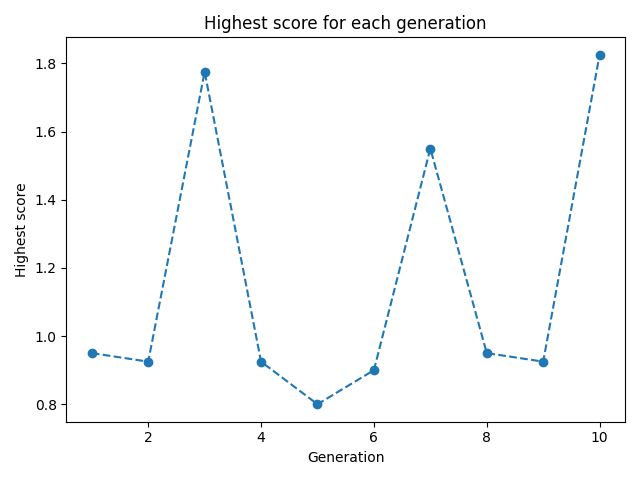
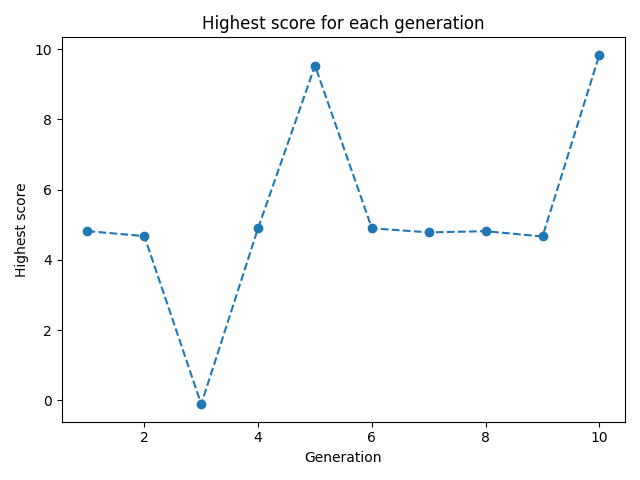
Added penalty for staying far form apple on average

diff --git a/src/geneticalgorithm.py b/src/geneticalgorithm.py
@@ -4,6 +4,7 @@ import matplotlib.pyplot as plt
 import numpy as np
 from tqdm import tqdm
 import time
+import copy
 
 from game import Game
 
@@ -82,20 +83,19 @@ class Agent():
         self.total_ticks_survived = 0
 
         self.game = Game(agent=self, game_fps=game_fps, snake_moves_per_second=snake_moves_per_second)
-        apples_eaten, distance_to_apple, distance_to_closest_wall = self.game.startGame() # distance_to_apple is in taxicab distance
+        apples_eaten, final_distance_to_apple, final_distance_to_closest_wall, mean_distance_to_apple = self.game.startGame() # distance_to_apple is in taxicab distance
         
         self.apples_eaten = apples_eaten
-        self.distance_to_apple = distance_to_apple
-        self.distance_to_closest_wall = distance_to_closest_wall
+        self.final_distance_to_apple = final_distance_to_apple
+        self.mean_distance_to_apple = mean_distance_to_apple
+        self.final_distance_to_closest_wall = final_distance_to_closest_wall
         self.total_ticks_survived += self.ticks_without_eating
 
-        score = 10*self.apples_eaten + 0.01*self.total_ticks_survived - 1*self.distance_to_apple
+        score = 5*self.apples_eaten + 0.01*self.total_ticks_survived - 2*self.mean_distance_to_apple
 
         self.fitness = score
         self.ticks_without_eating = 0
         return score
-
-
 
 class GeneticAlgorithm():
     def __init__(self, layers: List, population_size: int, num_generations: int, game_fps: int, snake_moves_per_second: int):
@@ -119,6 +119,8 @@ class GeneticAlgorithm():
 
             score = np.mean(temp_scores)
             results.append(score)
+
+            agent.fitness = score
         return results
     
     def selectAgents(self, agents: List[Agent], p: int):
@@ -147,11 +149,10 @@ class GeneticAlgorithm():
 
         if current_top_score > old_best_agent_score:
             self.best_agent = top_agents[0]
-            print(f'[i] Updated best agent. Previous/current best agent score in this run: {old_best_agent_score} / {current_top_score}')
+            print(f'[i] Updated best agent. Previous/current best agent avg. fitness in this run: {old_best_agent_score:.2f} / {current_top_score:.2f}')
 
         return top_agents
         
-
     def crossover(self, agents: List[Agent], layers: List, population_size: int):
         '''
         Performs crossover between selected agents to generate a new population. Returns elites and offspring.
@@ -286,25 +287,23 @@ class GeneticAlgorithm():
         total_time = end_time - start_time
         print(f'[+] Simulated {self.num_generations} generations of {self.population_size} Agents in {total_time:.2f} seconds at an average of {total_time/self.num_generations:.2f} seconds/generation.')
         
-        print(f'The best agent of generation {self.num_generations}:\n  Ate {self.best_agent.apples_eaten} apple(s)\n  Survived for {self.best_agent.total_ticks_survived} logical tick(s)\n  Died at a distance of {self.best_agent.distance_to_apple} from the apple')
+        print(f'The best agent of generation {self.num_generations}:\n  Ate {self.best_agent.apples_eaten} apple(s)\n  Survived for {self.best_agent.total_ticks_survived} logical tick(s)\n  Died at a distance of {self.best_agent.final_distance_to_apple} from the apple')
 
         self.best_agent.game.saveGridRecordsToJSON(f'replays/best-agent.json')
 
         self.best_agent.game.replay(self.snake_moves_per_second, title=f'Best agent of generation {self.num_generations}') # Replay the game from the best agent in the last generation
         
-            
 LAYERS = [
-    [2 + 2 + 1 + 4, 10, ELU],
-    [None, 10, ELU],
-    [None, 10, ELU],
+    [2 + 2 + 1 + 4, 100, ELU],
+    [None, 100, ELU],
+    [None, 50, ELU],
     [None, 5, ELU],
-    [None, 5, ELU],
-    [None, 4, identity]
+    [None, 4, sigmoid]
 ]
 
-POPULATION_SIZE = 1000
+POPULATION_SIZE = 100
 
-NUM_GENERATIONS = 10
+NUM_GENERATIONS = 100
 
 ga = GeneticAlgorithm(
     layers=LAYERS,

diff --git a/src/game.py b/src/game.py
@@ -110,6 +110,8 @@ class Game():
 
         self.grid_records = []
 
+        self.snake_distance_to_apple_record = []
+
         self.snake = Snake(
             body_color=SNAKE_BODY_COLOR,
             head_color=SNAKE_HEAD_COLOR, 
@@ -321,6 +323,7 @@ class Game():
             self.snake.direction = 'RIGHT'
 
         self.snake.move()
+        self.snake_distance_to_apple_record.append(self.snake.getDistanceToApple(apple=self.apple, normalize=True))
 
         if self.snake.isOutOfBounds():
             self.gameOver(
@@ -415,8 +418,9 @@ class Game():
         final_score = self.snake.score
         final_distance_to_apple = self.snake.getDistanceToApple(self.apple, normalize=True)
         final_distance_to_closest_wall = min(self.snake.getDistanceToWalls(normalize=True))
+        mean_distance_to_apple = np.mean(self.snake_distance_to_apple_record)
 
-        return final_score, final_distance_to_apple, final_distance_to_closest_wall
+        return final_score, final_distance_to_apple, final_distance_to_closest_wall, mean_distance_to_apple
 
 game = Game(
     game_fps=GAME_FPS,
